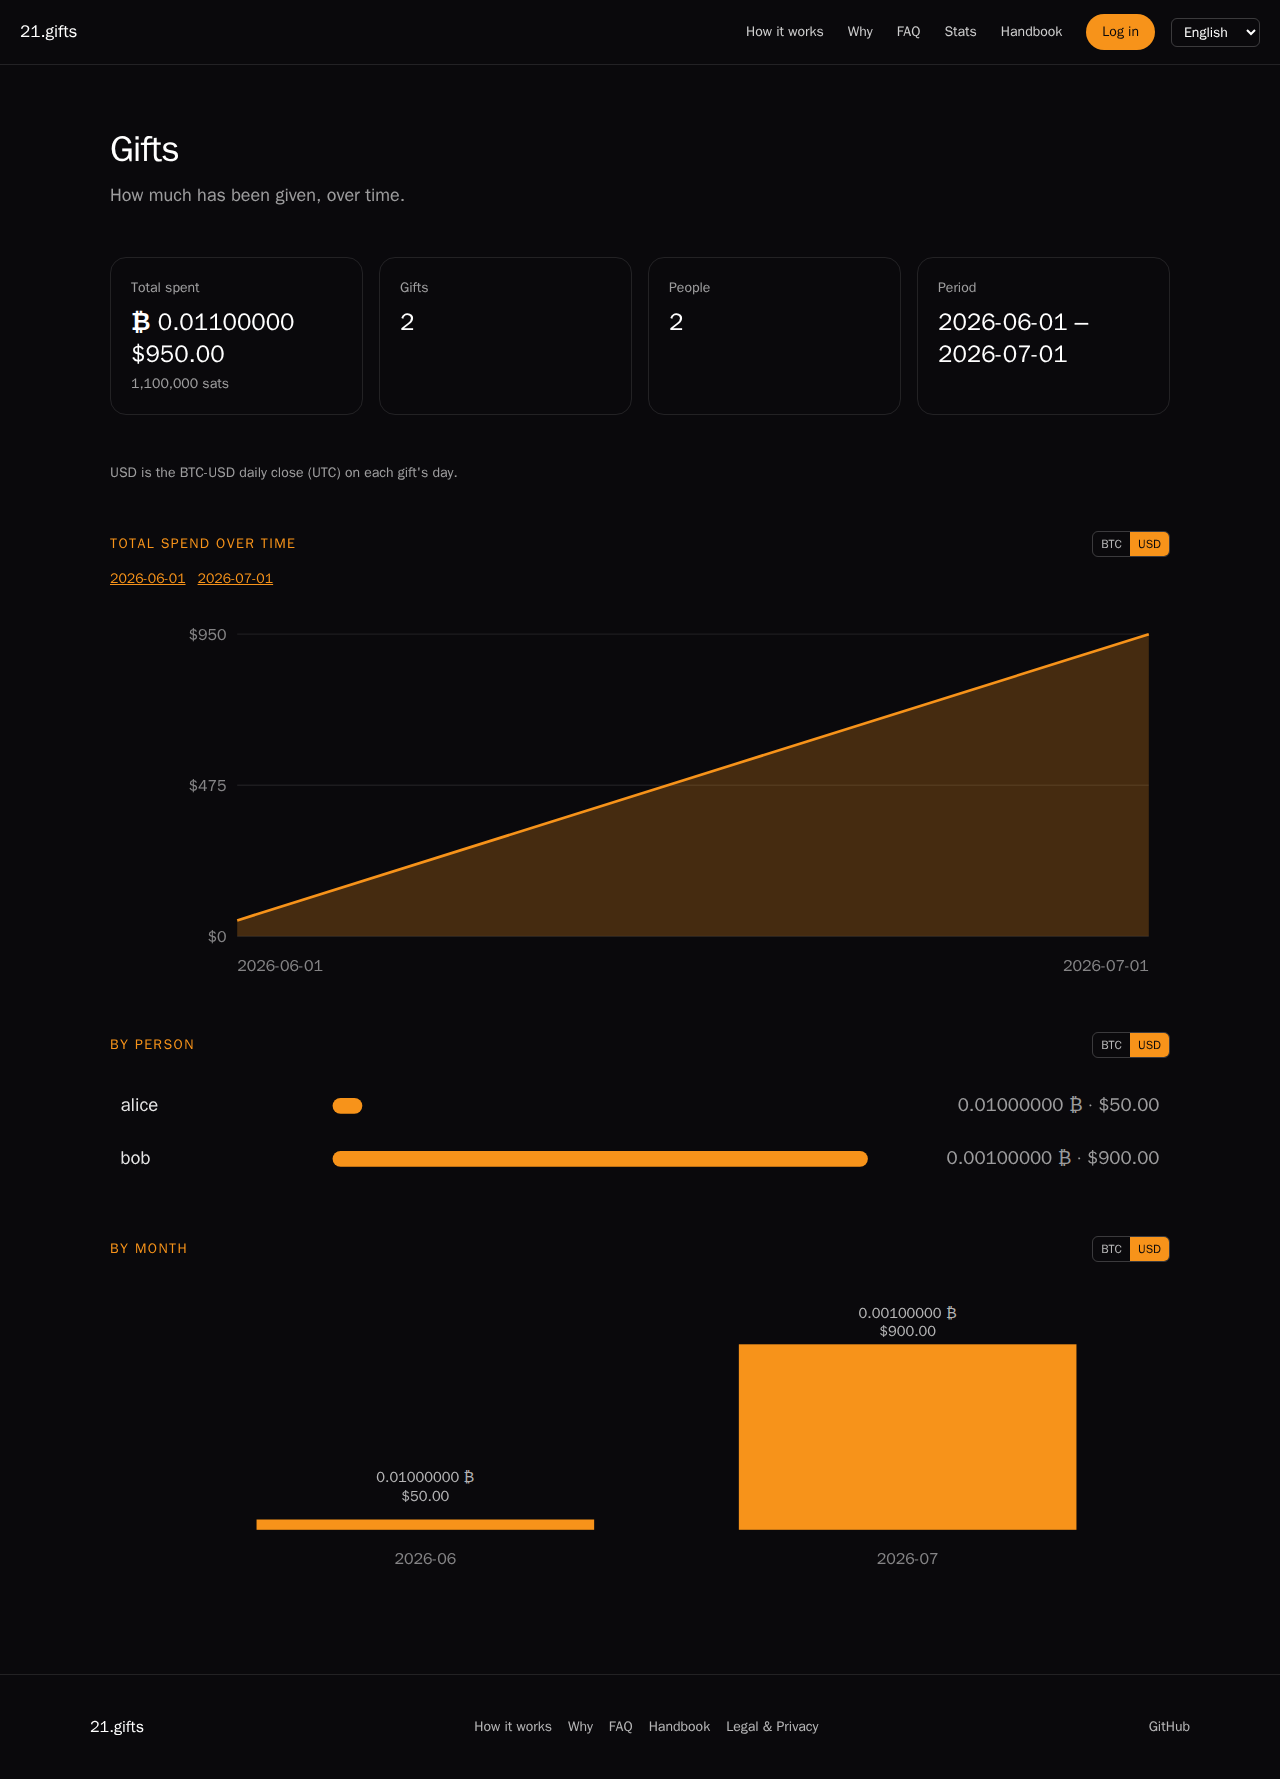
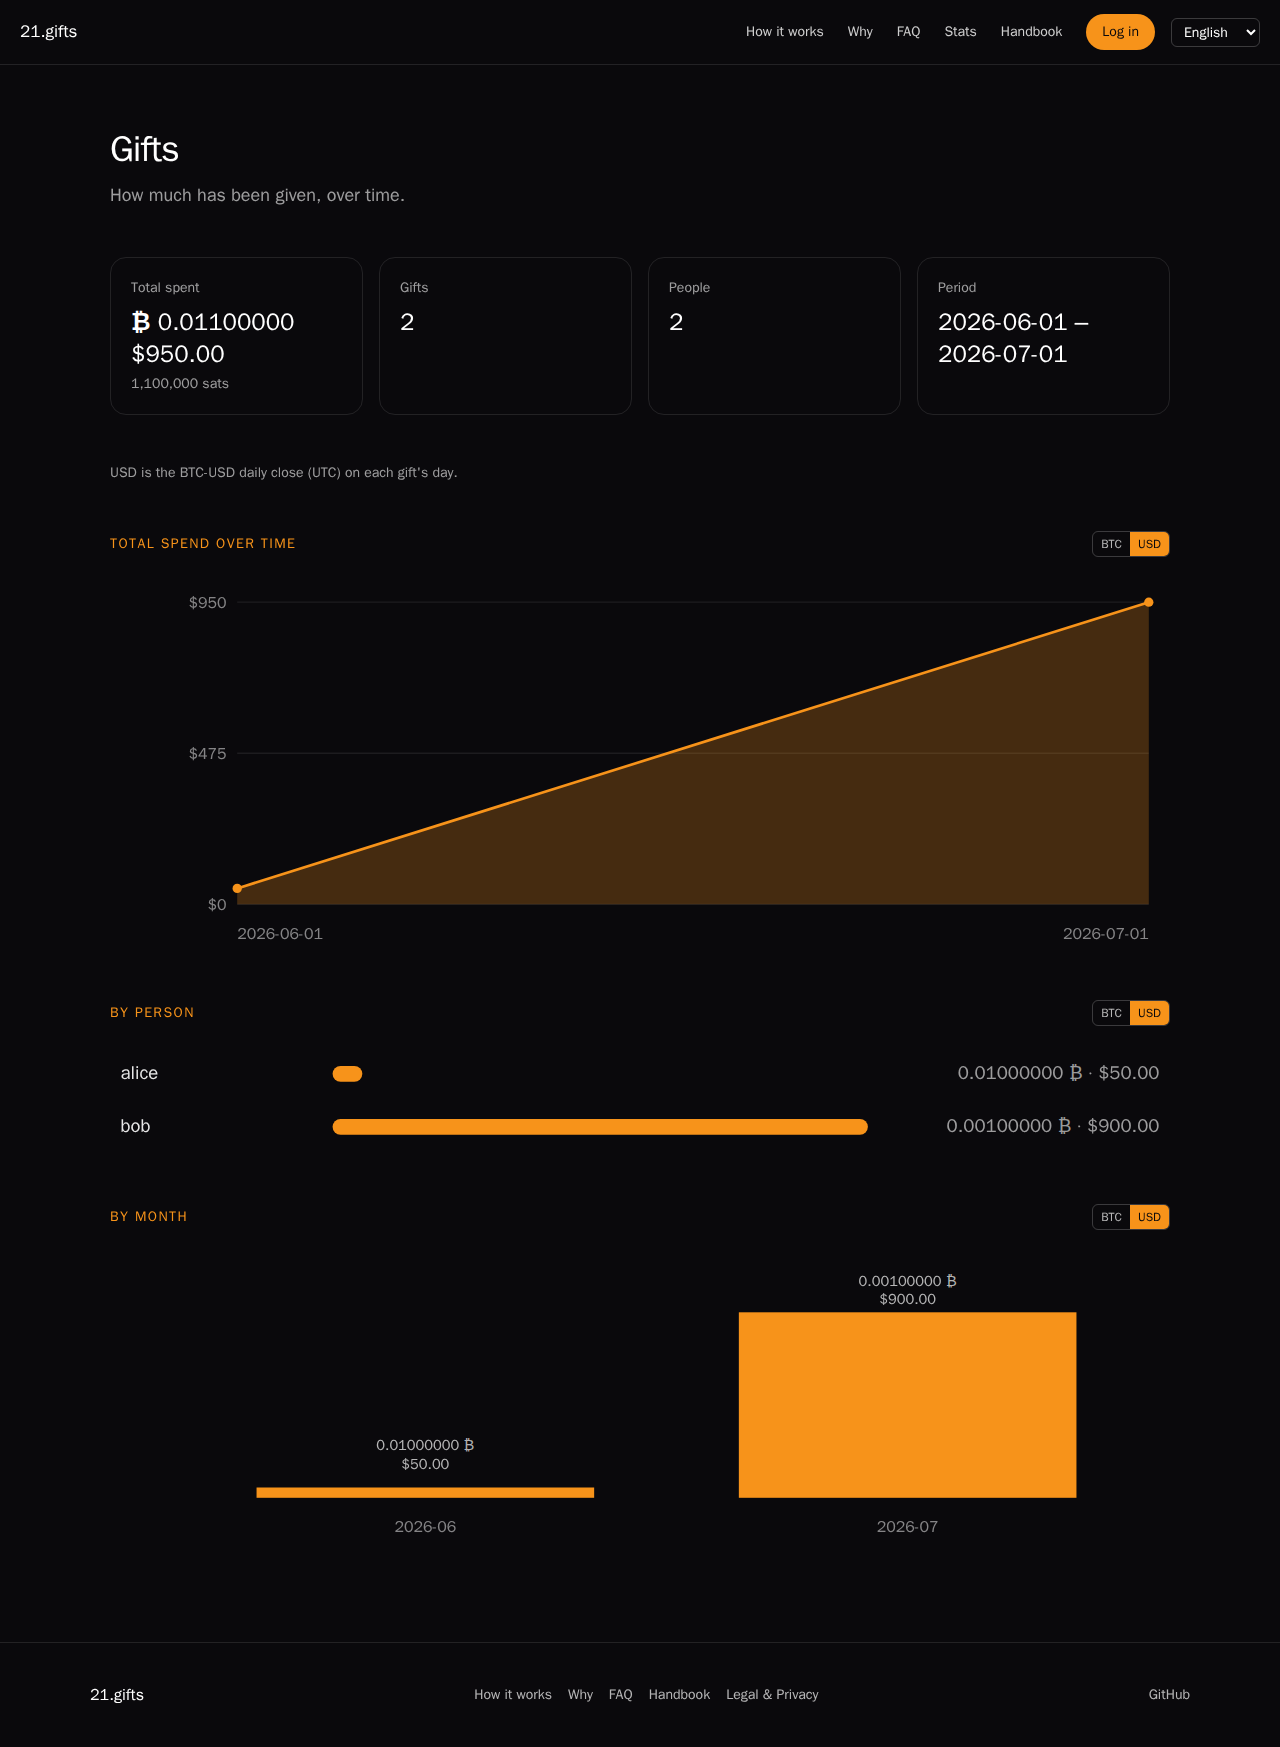
01a03d7e - Remove spend-over-time day link list, keep chart day links (#70)
* Remove spend-over-time UTC day links from /stats

The wrapping list of per-day links under Total spend over time is gone.
The cumulative chart, BTC/USD toggle, and /stats/[day] remain.

* Keep spend-day navigation on the over-time chart

Days with spend are markers on the cumulative series linking to
/stats/{day}. The wrapping text list of dates stays gone.

* Make over-time day markers keyboard-accessible

The cumulative chart uses role=group so SVG day links stay in the
accessibility tree, and non-overlapping hit strips so dense series
open the intended /stats/{day}.

* Drop the 1px floor on over-time day hit strips

Midpoint strips already share edges; a minimum width of 1 would overlap
neighbours on a long series.

* Ignore pointer events on over-time day dots

Visible markers can overlap a neighbour strip on a dense series.
Hit testing stays on the non-overlapping rects.

diff --git a/src/__tests__/components/StatsDashboard.test.tsx b/src/__tests__/components/StatsDashboard.test.tsx
@@ -118,6 +118,7 @@ describe('StatsDashboard', () => {
     render(<StatsDashboard stats={odd} error={null} loading={false} onRetry={() => undefined} />);
     expect(screen.getByRole('heading', { name: 'Total spend over time' })).toBeTruthy();
     expect(screen.getByLabelText('Spend over time in BTC')).toBeTruthy();
+    expect(screen.getByLabelText('Spend over time in BTC').getAttribute('role')).toBe('img');
     expect(screen.queryByLabelText('Spend over time in USD')).toBeNull();
     expect(screen.getByLabelText('Spend by person in BTC')).toBeTruthy();
     expect(screen.getByLabelText('Spend by month in BTC')).toBeTruthy();
@@ -153,12 +154,18 @@ describe('StatsDashboard', () => {
     expect(within(svg).getByText('2026-06-02')).toBeTruthy();
     expect(within(svg).getAllByText('2026-06-01')).toHaveLength(1);
     expect(within(svg).getAllByText('2026-06-02')).toHaveLength(1);
-    expect(screen.getByRole('link', { name: '2026-06-01' }).getAttribute('href')).toBe(
+    expect(within(svg).getByRole('link', { name: '2026-06-01' }).getAttribute('href')).toBe(
       '/stats/2026-06-01',
     );
-    expect(screen.getByRole('link', { name: '2026-06-02' }).getAttribute('href')).toBe(
+    expect(within(svg).getByRole('link', { name: '2026-06-02' }).getAttribute('href')).toBe(
       '/stats/2026-06-02',
     );
+    expect(
+      screen
+        .getByRole('heading', { name: 'Total spend over time' })
+        .closest('section')
+        ?.querySelector('p a'),
+    ).toBeNull();
   });
 
   it('renders KPIs, footnote, BTC/USD charts, and person labels', () => {
@@ -178,6 +185,61 @@ describe('StatsDashboard', () => {
     expect(screen.getByLabelText('Spend by month in BTC')).toBeTruthy();
     expect(screen.getByText('alice')).toBeTruthy();
     expect(screen.getByText('0.01000000 ₿ · $950.00')).toBeTruthy();
+    const svg = screen.getByLabelText('Spend over time in BTC');
+    expect(svg.getAttribute('role')).toBe('group');
+    expect(within(svg).getByRole('link', { name: '2026-06-01' }).getAttribute('href')).toBe(
+      '/stats/2026-06-01',
+    );
+    expect(within(svg).queryByRole('link', { name: '2026-06-02' })).toBeNull();
+    expect(within(svg).getByRole('link', { name: '2026-06-03' }).getAttribute('href')).toBe(
+      '/stats/2026-06-03',
+    );
+    expect(
+      screen
+        .getByRole('heading', { name: 'Total spend over time' })
+        .closest('section')
+        ?.querySelector('p a'),
+    ).toBeNull();
+  });
+
+  it('keeps over-time day hit strips from overlapping on a long series', () => {
+    const spendOverTime = Array.from({ length: 40 }, (_, i) => {
+      const utc = new Date(Date.UTC(2026, 5, 1 + i));
+      const day = utc.toISOString().slice(0, 10);
+      const sats = (i + 1) * 100;
+      return {
+        day,
+        sats,
+        cumulativeSats: sats,
+        btc: '0.00000100',
+        cumulativeBtc: '0.00000100',
+        usd: '1.00',
+        cumulativeUsd: '1.00',
+      };
+    });
+    const longSeries: GiftStats = {
+      ...SAMPLE,
+      spendOverTime,
+    };
+    render(
+      <StatsDashboard stats={longSeries} error={null} loading={false} onRetry={() => undefined} />,
+    );
+    const svg = screen.getByLabelText('Spend over time in BTC');
+    expect(svg.getAttribute('role')).toBe('group');
+    const rects = [...svg.querySelectorAll('a rect')];
+    expect(rects).toHaveLength(40);
+    expect(
+      [...svg.querySelectorAll('a circle')].every(
+        (el) => el.getAttribute('pointer-events') === 'none',
+      ),
+    ).toBe(true);
+    for (let i = 1; i < rects.length; i += 1) {
+      const prev = rects[i - 1];
+      const cur = rects[i];
+      const prevRight = Number(prev?.getAttribute('x')) + Number(prev?.getAttribute('width'));
+      const x = Number(cur?.getAttribute('x'));
+      expect(x).toBeGreaterThanOrEqual(prevRight - 0.01);
+    }
   });
 
   it('anchors the first and last spend-over-time dates so full YYYY-MM-DD labels stay in view', () => {

diff --git a/src/components/StatsDashboard.tsx b/src/components/StatsDashboard.tsx
@@ -1,7 +1,6 @@
 'use client';
 
 import { useState, type ReactElement } from 'react';
-import Link from 'next/link';
 import type { GiftStats } from '@/lib/api-types';
 import { formatBtcTick, formatUsdDisplay, formatUsdTick } from '@/lib/stats-money';
 
@@ -112,6 +111,8 @@ function utcDay(iso: string | null): string {
 /**
  * Cumulative spend-over-time area chart for one money series.
  *
+ * Days with spend are SVG links to `/stats/{day}` on the series (not a text list).
+ *
  * @param series - Daily cumulative points.
  * @param valueAt - Extract the numeric cumulative value used for scale only.
  * @param formatTick - Axis tick label formatter.
@@ -177,7 +178,7 @@ function CumulativeOverTimeChart(
     <svg
       viewBox={`0 0 ${width} ${height}`}
       className="h-auto w-full"
-      role="img"
+      role="group"
       aria-label={ariaLabel}
     >
       {yTicks.map((tick) => (
@@ -202,6 +203,26 @@ function CumulativeOverTimeChart(
       ))}
       <polygon points={area} fill={ORANGE} fillOpacity="0.25" />
       <polyline points={line} fill="none" stroke={ORANGE} strokeWidth="2" />
+      {series.map((point, i) => {
+        if (point.sats <= 0) {
+          return null;
+        }
+        const cx = xAt(i);
+        const cy = yAt(values[i] as number);
+        const hitX = i === 0 ? padL : (xAt(i - 1) + cx) / 2;
+        const hitEnd = i === n - 1 ? padL + innerW : (cx + xAt(i + 1)) / 2;
+        return (
+          <a
+            key={`${ariaLabel}-day-${point.day}`}
+            href={`/stats/${point.day}`}
+            aria-label={point.day}
+            className="cursor-pointer"
+          >
+            <rect x={hitX} y={padT} width={hitEnd - hitX} height={innerH} fill="transparent" />
+            <circle cx={cx} cy={cy} r={3.5} fill={ORANGE} pointerEvents="none" />
+          </a>
+        );
+      })}
       {xIdx.map((i, tickIndex) => {
         const point = series[i] as (typeof series)[number];
         const anchor =
@@ -373,8 +394,8 @@ function ByMonthChart(rows: GiftStats['byMonth'], scale: BarScale): ReactElement
 /**
  * Non-empty charts branch with independent BTC/USD scale state per diagram.
  *
- * Over time shows one cumulative series. Person and month bars rescale; their
- * labels stay both units.
+ * Over time shows one cumulative series; days with spend link to `/stats/{day}`
+ * on the chart. Person and month bars rescale; their labels stay both units.
  *
  * @param stats - Loaded gift stats with at least one gift.
  * @returns Diagram sections.
@@ -400,19 +421,6 @@ function StatsCharts({ stats }: { stats: GiftStats }): ReactElement {
             groupLabel="Over time scale"
           />
         </div>
-        <p className="mt-3 text-sm text-white/60">
-          {stats.spendOverTime
-            .filter((point) => point.sats > 0)
-            .map((point) => (
-              <Link
-                key={point.day}
-                href={`/stats/${point.day}`}
-                className="mr-3 text-[#f7931a] underline"
-              >
-                {point.day}
-              </Link>
-            ))}
-        </p>
         <div className="mt-6">
           {overTimeScale === 'btc'
             ? CumulativeOverTimeChart(

diff --git a/e2e/stats.spec.ts b/e2e/stats.spec.ts
@@ -92,6 +92,19 @@ test('stats page shows total spend over time', async ({ page }) => {
   await expect(page.getByRole('heading', { name: 'Total spend over time' })).toBeVisible();
   await expect(page.getByText('₿ 0.00001500')).toBeVisible();
   await expect(page.locator('dl').getByText('$1.43')).toBeVisible();
+  const chart = page.getByLabel('Spend over time in BTC');
+  await expect(chart.getByRole('link', { name: '2026-06-01' })).toHaveAttribute(
+    'href',
+    '/stats/2026-06-01',
+  );
+  await expect(chart.getByRole('link', { name: '2026-07-01' })).toHaveAttribute(
+    'href',
+    '/stats/2026-07-01',
+  );
+  await expect(page.getByRole('link', { name: '2026-06-02' })).toHaveCount(0);
+  await chart.getByRole('link', { name: '2026-06-01' }).click();
+  await expect(page).toHaveURL(/\/stats\/2026-06-01$/);
+  await expect(page.getByText('alice')).toBeVisible();
 });
 
 test('stats page empty copy', async ({ page }) => {

diff --git a/e2e/functions.spec.ts b/e2e/functions.spec.ts
@@ -662,6 +662,14 @@ test('Function: StatsDashboard — empty stats hide the spend chart heading', as
   await expect(page.getByRole('heading', { name: 'Total spend over time' })).toHaveCount(0);
 });
 
+test('Function: StatsDashboard — a spend day on the chart opens /stats/{day}', async ({ page }) => {
+  await stubGiftStats(page, POPULATED_STATS);
+  await page.goto('/stats');
+  await page.getByLabel('Spend over time in BTC').getByRole('link', { name: '2026-06-01' }).click();
+  await expect(page).toHaveURL(/\/stats\/2026-06-01$/);
+  await expect(page.getByText('alice')).toBeVisible();
+});
+
 test('Function: StatsDashboard — month USD scale makes the higher-USD month taller', async ({
   page,
 }) => {

diff --git a/docs/handbook/screens.md b/docs/handbook/screens.md
@@ -67,8 +67,8 @@ Fetch failed. Button **Try again**.
 ## Screen: /stats
 
 - **URL:** `/stats` — public gift totals (no auth gate).
-- **What the user sees:** Dark 21.gifts header with a language switcher, heading **Gifts**, four KPI cards (total spent in **BTC** and **USD** with a sats caption, gifts, people, period), then diagrams: **Total spend over time** (one cumulative chart plus UTC-day links for days with spend), **By person** and **By month**. Each diagram has a BTC/USD control that defaults to BTC; over time switches the series, person and month rescale bar size while labels stay both units. Empty database copy: **No gifts recorded yet.** Stats body copy stays English.
-- **Actions:** Change language. Read the charts. Open a spend day (`/stats/{YYYY-MM-DD}`) from **Total spend over time**. Switch **Total spend over time** / **By person** / **By month** between BTC and USD. Header **Stats** stays on this page; **Log in** goes to `/login`.
+- **What the user sees:** Dark 21.gifts header with a language switcher, heading **Gifts**, four KPI cards (total spent in **BTC** and **USD** with a sats caption, gifts, people, period), then diagrams: **Total spend over time** (one cumulative chart; days with spend are markers on the series, not a wrapping date list), **By person** and **By month**. Each diagram has a BTC/USD control that defaults to BTC; over time switches the series, person and month rescale bar size while labels stay both units. Empty database copy: **No gifts recorded yet.** Stats body copy stays English.
+- **Actions:** Change language. Read the charts. Open a spend day (`/stats/{YYYY-MM-DD}`) from **Total spend over time** by clicking a day with spend. Switch **Total spend over time** / **By person** / **By month** between BTC and USD. Header **Stats** stays on this page; **Log in** goes to `/login`.
 - **Calls:** `StatsPage`, `StatsLoader`, `StatsDashboard`, `fetchGiftStats` (same-origin `GET /gifts/stats`), `LanguageSwitcher`.
 
 ### Variant: default

diff --git a/docs/handbook/functions.md b/docs/handbook/functions.md
@@ -59,7 +59,7 @@
 
 ## Function: StatsDashboard
 
-- **Purpose:** Renders gift KPIs (BTC + USD totals with a sats caption) and SVG diagrams (cumulative spend over time, by person, by month), plus loading/error/empty states. **Total spend over time** links each non-zero UTC day to `/stats/{day}`. Each of **Total spend over time**, **By person**, and **By month** has a BTC/USD control (default BTC). Over time shows one cumulative series. Person and month rescale bar size while labels stay both units.
+- **Purpose:** Renders gift KPIs (BTC + USD totals with a sats caption) and SVG diagrams (cumulative spend over time, by person, by month), plus loading/error/empty states. **Total spend over time** links each non-zero UTC day on the chart (not as a wrapping text list) to `/stats/{day}`. Each of **Total spend over time**, **By person**, and **By month** has a BTC/USD control (default BTC). Over time shows one cumulative series. Person and month rescale bar size while labels stay both units.
 - **Inputs:** `stats`, `error`, `loading`, `onRetry`.
 - **Returns / side effects:** React element. No network.
 - **Used by:** `StatsLoader`.
